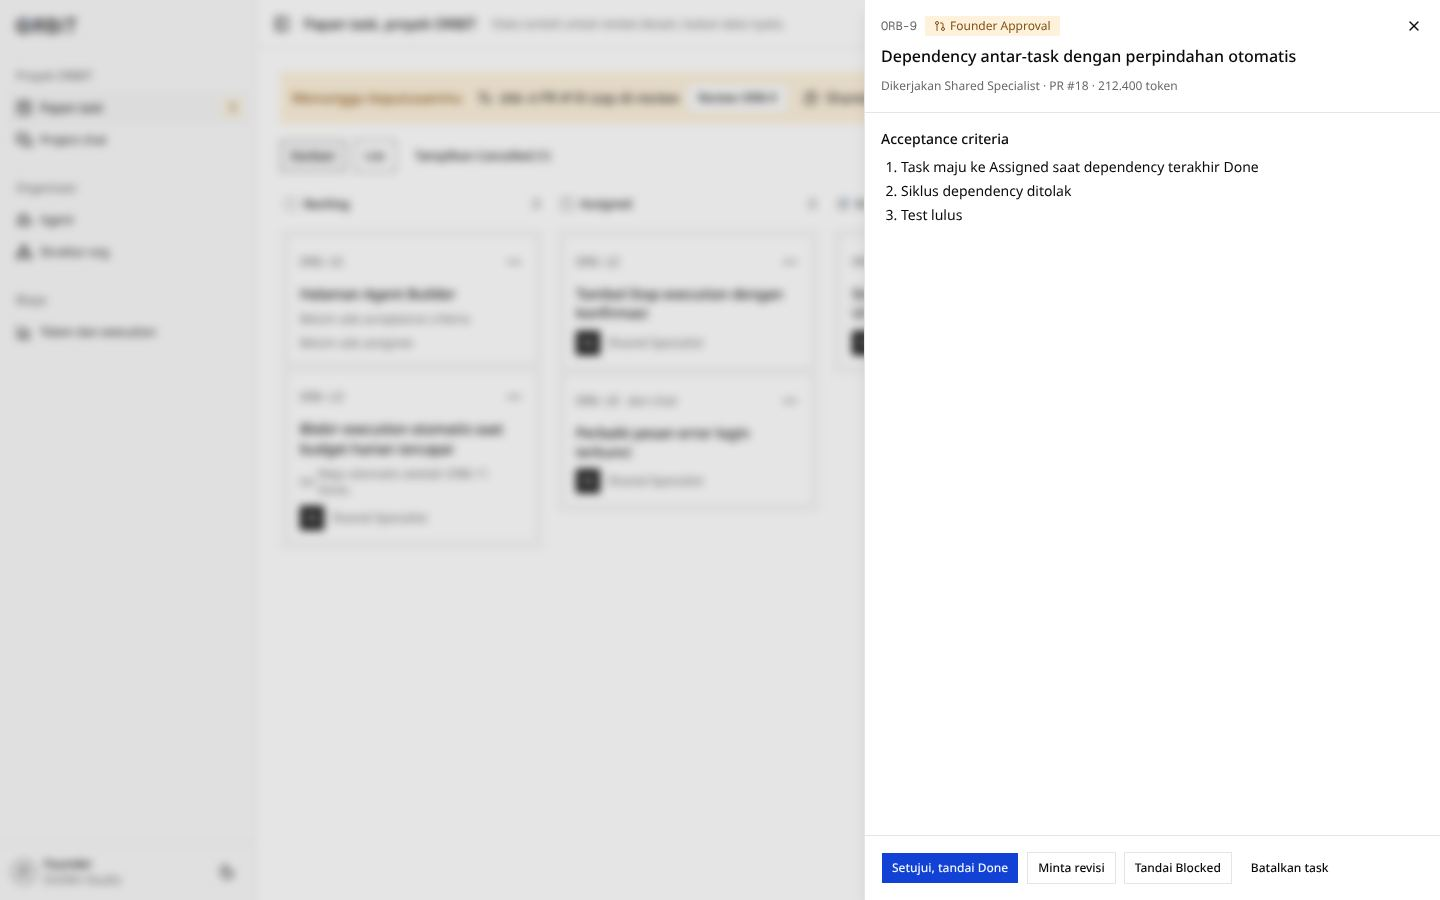
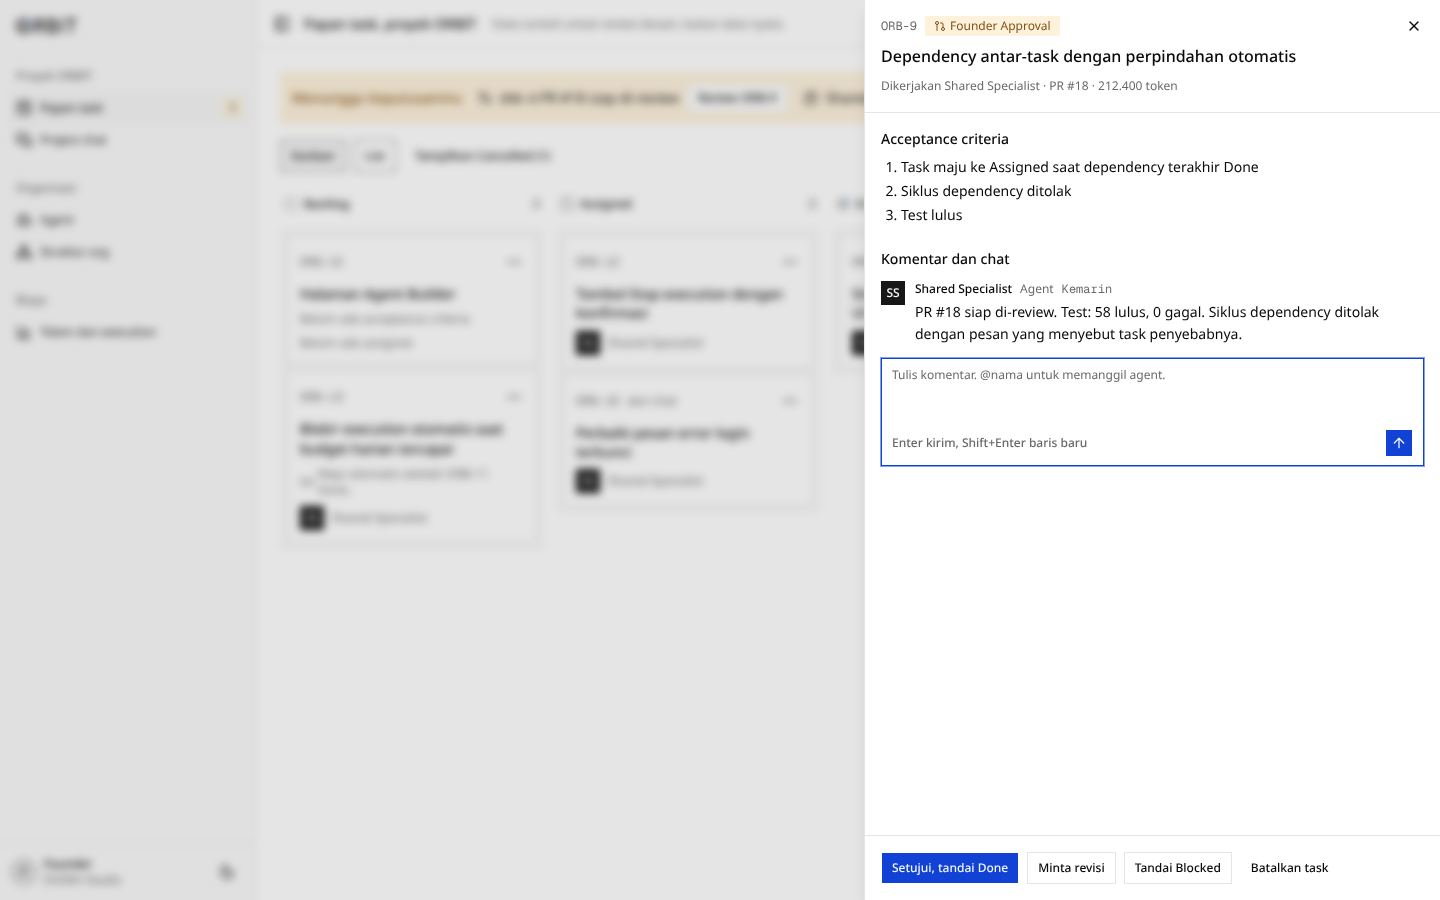
design: live execution panel and task comment thread (PRD v1.12)
Task detail now shows the running execution with tool summary and log,
and a comment thread that doubles as chat with routing notes per PRD
17.4. Mockups regenerated (15 JPG); click-through 39 checks pass.

Claude-Session: https://claude.ai/code/session_01PfyFGTKZtzKnpK7jkRuHrS

Changed region(s): [[0.5938, 0.28, 0.9688, 0.4356], [0.9375, 0.4667, 1.0, 0.5289], [0.625, 0.4667, 0.75, 0.4978]]

diff --git a/design/shadcn/components/orbit/task-thread.tsx b/design/shadcn/components/orbit/task-thread.tsx
@@ -1,0 +1,91 @@
+"use client"
+
+import * as React from "react"
+import { ArrowUp } from "lucide-react"
+
+import { InputGroup, InputGroupAddon, InputGroupButton, InputGroupTextarea } from "@/components/ui/input-group"
+import { ActorAvatar } from "@/components/orbit/actor-avatar"
+import { actorById, agents, taskThreads, type Comment, type Task } from "@/lib/orbit-data"
+
+/**
+ * Thread task = komentar = chat dengan agent (PRD 17.4, v1.12).
+ * Aturan saat execution berjalan:
+ * - mention assignee yang sedang bekerja: instruksi tambahan ke execution yang sama
+ * - mention agent lain: invocation baru
+ * - tanpa mention: catatan, tidak dibaca agent sampai dipanggil
+ */
+function routeNote(text: string, task: Task) {
+  const mentioned = agents.filter((a) => text.includes(`@${a.name}`))
+  if (!mentioned.length) return "Catatan. Agent tidak membacanya sampai dipanggil berikutnya."
+  const running = task.status === "in-progress"
+  if (running && mentioned.some((a) => a.id === task.assigneeId))
+    return "Dikirim ke execution yang sedang berjalan sebagai instruksi tambahan."
+  return `Memulai invocation baru untuk ${mentioned.map((a) => a.name).join(", ")}.`
+}
+
+export function TaskThread({ task }: { task: Task }) {
+  const [items, setItems] = React.useState<Comment[]>(taskThreads[task.id] ?? [])
+  const [draft, setDraft] = React.useState("")
+  const send = () => {
+    const text = draft.trim()
+    if (!text) return
+    setItems((c) => [...c, { id: c.length + 1, authorId: "founder", time: "Baru saja", text, note: routeNote(text, task) }])
+    setDraft("")
+  }
+  return (
+    <section aria-labelledby="thread" className="flex flex-col gap-3">
+      <h2 id="thread" className="text-sm font-medium">Komentar dan chat</h2>
+      {items.length ? (
+        <ol className="flex flex-col gap-4" aria-live="polite">
+          {items.map((c) => {
+            const a = actorById(c.authorId)!
+            return (
+              <li key={c.id} className="flex gap-2.5">
+                <ActorAvatar actor={a} size="sm" />
+                <div className="flex min-w-0 flex-col gap-1">
+                  <p className="flex items-baseline gap-2 text-xs">
+                    <span className="font-medium">{a.name}</span>
+                    {a.kind === "agent" ? <span className="text-muted-foreground">Agent</span> : null}
+                    <span className="font-mono text-muted-foreground">{c.time}</span>
+                  </p>
+                  <p className="text-sm leading-relaxed">{c.text}</p>
+                  {c.note ? <p className="text-xs text-muted-foreground">{c.note}</p> : null}
+                </div>
+              </li>
+            )
+          })}
+        </ol>
+      ) : (
+        <p className="text-xs text-muted-foreground">Belum ada komentar. Panggil agent dengan @nama untuk memberi instruksi.</p>
+      )}
+      <form
+        onSubmit={(e) => {
+          e.preventDefault()
+          send()
+        }}
+      >
+        <InputGroup>
+          <InputGroupTextarea
+            aria-label={`Komentar untuk ${task.id}`}
+            placeholder="Tulis komentar. @nama untuk memanggil agent."
+            rows={2}
+            value={draft}
+            onChange={(e) => setDraft(e.target.value)}
+            onKeyDown={(e) => {
+              if (e.key === "Enter" && !e.shiftKey && !e.nativeEvent.isComposing && e.keyCode !== 229) {
+                e.preventDefault()
+                send()
+              }
+            }}
+          />
+          <InputGroupAddon align="block-end">
+            <span className="text-xs text-muted-foreground">Enter kirim, Shift+Enter baris baru</span>
+            <InputGroupButton variant="default" size="icon-sm" type="submit" className="ml-auto" aria-label="Kirim komentar">
+              <ArrowUp aria-hidden="true" />
+            </InputGroupButton>
+          </InputGroupAddon>
+        </InputGroup>
+      </form>
+    </section>
+  )
+}

diff --git a/design/shadcn/components/orbit/board.tsx b/design/shadcn/components/orbit/board.tsx
@@ -30,6 +30,7 @@ import { Textarea } from "@/components/ui/textarea"
 import { ToggleGroup, ToggleGroupItem } from "@/components/ui/toggle-group"
 import { ActorAvatar } from "@/components/orbit/actor-avatar"
 import { ExecutionCard } from "@/components/orbit/execution-card"
+import { TaskThread } from "@/components/orbit/task-thread"
 import { StatusBadge, StatusIcon, TASK_STATUS } from "@/components/orbit/status"
 import { actorById, byId, formatTokens, tasks as seed, type Task, type TaskStatus } from "@/lib/orbit-data"
 import { cn } from "@/lib/utils"
@@ -244,7 +245,12 @@ function TaskSheet({ task, all, onClose, onPick }: { task: Task | null; all: Tas
               {task.note ? (
                 <p className={cn("text-sm", task.status === "blocked" && "text-task-blocked-foreground")}>{task.note}</p>
               ) : null}
-              {task.status === "in-progress" ? <ExecutionCard /> : null}
+              {task.status === "in-progress" ? (
+                <section aria-labelledby="live" className="flex flex-col gap-2">
+                  <h2 id="live" className="text-sm font-medium">Execution berjalan</h2>
+                  <ExecutionCard showLog />
+                </section>
+              ) : null}
               <section aria-labelledby="ac" className="flex flex-col gap-2">
                 <h2 id="ac" className="text-sm font-medium">Acceptance criteria</h2>
                 {task.criteria.length ? (
@@ -273,6 +279,7 @@ function TaskSheet({ task, all, onClose, onPick }: { task: Task | null; all: Tas
                   <p className="text-xs text-muted-foreground">Task ini pindah ke Assigned otomatis saat semua dependency Done.</p>
                 </section>
               ) : null}
+              <TaskThread key={task.id} task={task} />
             </div>
             {actions.length ? (
               <div className="flex flex-wrap items-center gap-2 border-t p-4">

diff --git a/design/shadcn/lib/orbit-data.ts b/design/shadcn/lib/orbit-data.ts
@@ -95,6 +95,12 @@ export const runningExecution = {
   tokens: 84200,
   limit: 300000,
   step: "Menjalankan test integrasi (pnpm test)",
+  tools: [
+    { kind: "Ubah file", detail: "backend/app/executions/stream.py" },
+    { kind: "Ubah file", detail: "web/components/execution-log.tsx" },
+    { kind: "Perintah", detail: "pnpm test (unit): 41 lulus" },
+    { kind: "Perintah", detail: "pnpm test (integrasi): berjalan" },
+  ],
   log: [
     "10:42:03  Mengambil branch orb-11-log-stream",
     "10:42:09  Membaca instruksi agent v7",
@@ -122,6 +128,19 @@ export const tokensPerDay = [
   { day: "Sel", tokens: 2120700 },
   { day: "Rab", tokens: 1284300 },
 ]
+
+export type Comment = { id: number; authorId: string; time: string; text: string; note?: string }
+
+// Thread task = kolom komentar = chat terkait task (PRD 17.4, v1.12).
+export const taskThreads: Record<string, Comment[]> = {
+  "ORB-11": [
+    { id: 1, authorId: "founder", time: "10:41", text: "@Shared Specialist kerjakan ORB-11. Pakai Server-Sent Events, bukan WebSocket." },
+    { id: 2, authorId: "spec", time: "10:42", text: "Mulai di branch orb-11-log-stream dengan SSE. Execution EXE-482." },
+  ],
+  "ORB-9": [
+    { id: 1, authorId: "spec", time: "Kemarin", text: "PR #18 siap di-review. Test: 58 lulus, 0 gagal. Siklus dependency ditolak dengan pesan yang menyebut task penyebabnya." },
+  ],
+}
 
 export const byId = <T extends { id: string }>(list: T[], id?: string) => list.find((x) => x.id === id)
 export const actorById = (id?: string): Actor | undefined => (id === "founder" ? founder : byId(agents, id))

diff --git a/design/shadcn/components/orbit/execution-card.tsx b/design/shadcn/components/orbit/execution-card.tsx
@@ -88,6 +88,19 @@ export function ExecutionCard({ className, showLog = false, stopOpen }: { classN
         {running ? <>Langkah terakhir: {exec.step}</> : <>Dihentikan oleh Founder. Task kembali ke Assigned.</>}
       </p>
       {showLog ? (
+        <section aria-label="Tool yang dipanggil" className="flex flex-col gap-1 text-xs">
+          <h3 className="text-muted-foreground">Tool yang dipanggil</h3>
+          <ul className="flex flex-col gap-0.5 font-mono">
+            {exec.tools.map((t) => (
+              <li key={t.detail} className="flex gap-2">
+                <span className="w-20 shrink-0 text-muted-foreground">{t.kind}</span>
+                <span className="min-w-0 truncate">{t.detail}</span>
+              </li>
+            ))}
+          </ul>
+        </section>
+      ) : null}
+      {showLog ? (
         <pre aria-label="Execution log" className="max-h-56 overflow-auto bg-muted p-3 font-mono text-xs leading-5 text-foreground">
           {exec.log.join("\n")}
           {running ? "" : "\n11:02:10  Dihentikan oleh Founder"}

diff --git a/design/design-system.md b/design/design-system.md
@@ -1,6 +1,6 @@
 # ORBIT Design System
 
-Versi 2.0 · 2026-11-25 · Mengikuti PRD v1.11
+Versi 2.0 · 2026-11-25 · Mengikuti PRD v1.12
 Implementasi: [`design/shadcn/`](shadcn/) · Brand: [`brand-guidelines.md`](brand-guidelines.md) · Logo: [`logo/`](logo/) · Mockup: [`mockups/`](mockups/)
 
 Design system ini **adalah kode di `design/shadcn`**. Dokumen ini menjelaskan keputusan dan aturannya. Kalau dokumen dan kode berbeda, yang dianggap benar adalah kode, lalu dokumen ini diperbaiki.
@@ -153,7 +153,7 @@ Berat font hanya 400 dan 500. Tidak ada uppercase dengan tracking lebar.
 
 | Layar (PRD 4.4) | Route | Pola ORBIT | Komponen shadcn |
 |---|---|---|---|
-| Kanban, List, detail task | `/board` | `Board`, `TaskCard`, `TaskSheet`, `ReasonDialog`, `CreateTaskDialog` | `toggle-group`, `button`, `dropdown-menu`, `sheet`, `dialog`, `field`, `input`, `textarea`, `table`, `badge`, `avatar` |
+| Kanban, List, detail task (dengan panel execution live dan thread komentar/chat, PRD 17.4) | `/board` | `Board`, `TaskCard`, `TaskSheet`, `TaskThread`, `ExecutionCard`, `ReasonDialog`, `CreateTaskDialog` | `toggle-group`, `button`, `dropdown-menu`, `sheet`, `dialog`, `field`, `input`, `textarea`, `table`, `badge`, `avatar` |
 | Project Chat dengan @mention | `/chat` | `Chat` | `input-group`, `command`, `select`, `item`, `avatar`, `badge` |
 | Daftar agent | `/agents` | `AgentList` | `table`, `badge`, `avatar`, `button` |
 | Agent Builder | `/agents/new` | `AgentBuilder` | `field`, `input`, `input-group`, `select`, `radio-group`, `tabs`, `textarea`, `alert` |
@@ -177,7 +177,12 @@ Transisi milik assignee atau system tidak muncul sebagai tombol.
 - **StatusBadge**: ikon + label + tone, tanpa border, uppercase, atau glow. Untuk status yang sedang berjalan, ikonnya `OrbitIndicator` dengan posisi satelit sesuai porsi token.
 - **ActorAvatar**: human berupa lingkaran `bg-human` dengan `ring-1 ring-input`; agent berupa kotak `bg-agent`. Isinya inisial. Di chat, nama agent diberi label "Agent".
 - **TaskCard**: baris atas berisi ID mono, penanda "dari chat", dan menu aksi. Lalu judul (sebuah `<button>` yang area kliknya menutupi seluruh kartu), satu baris konteks (alasan blocked, feedback revisi, atau dependency yang ditunggu), dan footer berisi assignee, PR, dan token. Menu aksi adalah alternatif drag (WCAG 2.5.7). Tidak ada garis warna di tepi kartu.
-- **ExecutionCard**: agent dan task, status, execution ID, durasi, token / batas, `progress`, langkah terakhir, dan log opsional. Tombol Stop memakai varian `destructive` dan membuka `AlertDialog` (copy di brand-guidelines §3.4). Setelah dihentikan, status menjadi Cancelled.
+- **Detail task** (`TaskSheet`, PRD 17.4 v1.12): status, judul, assignee, PR, dan token di header. Bila ada execution berjalan, panel live (`ExecutionCard` dengan log) tampil paling atas. Di bawahnya acceptance criteria, dependency, lalu thread komentar. Aksi Founder di footer.
+- **TaskThread**: komentar task sekaligus chat dengan agent. Setiap komentar Founder diberi keterangan rute, sesuai PRD 17.4:
+  - Mention assignee yang sedang bekerja: "Dikirim ke execution yang sedang berjalan sebagai instruksi tambahan."
+  - Mention agent lain: "Memulai invocation baru untuk …"
+  - Tanpa mention: "Catatan. Agent tidak membacanya sampai dipanggil berikutnya."
+- **ExecutionCard**: agent dan task, status, execution ID, durasi, token / batas, `progress`, langkah terakhir, dan (di detail task dan dashboard) daftar tool yang dipanggil serta log. Tombol Stop memakai varian `destructive` dan membuka `AlertDialog` (copy di brand-guidelines §3.4). Setelah dihentikan, status menjadi Cancelled.
 - **Node org chart**: Founder di puncak sebagai human (PRD 8.1, v1.11) dan tidak bisa diklik. Node agent adalah `<button>` yang membuka sheet detail.
   - Garis atasan tetap: solid.
   - Garis atasan per proyek: putus-putus dengan label kode proyek.
@@ -242,10 +247,12 @@ Yang sudah diimplementasikan di `/states`: empty state 0 agent, skeleton papan, 
 
 ### 7.4 Bukti click-through (R-35)
 
-Setiap mockup dijalankan dari `next build` + `next start`, lalu diuji otomatis dengan Playwright. Hasilnya 35 cek lulus dan 0 error di console. Yang diuji:
+Setiap mockup dijalankan dari `next build` + `next start`, lalu diuji otomatis dengan Playwright. Hasilnya 39 cek lulus dan 0 error di console. Yang diuji:
 - Navigasi sidebar ke 5 halaman.
 - Kanban ↔ List dan tampilkan Cancelled.
 - Review membuka sheet; Escape menutupnya.
+- Detail task In Progress menampilkan panel execution live dan tool yang dipanggil.
+- Rute komentar: mention assignee menjadi instruksi tambahan, mention agent lain memulai invocation baru, tanpa mention menjadi catatan.
 - Blocked tanpa alasan memunculkan error; dengan alasan, task pindah kolom.
 - Setujui memindahkan task ke Done.
 - Buat task: validasi, lalu task muncul di Backlog.

diff --git a/design/brand-guidelines.md b/design/brand-guidelines.md
@@ -1,6 +1,6 @@
 # ORBIT Brand Guidelines
 
-Versi 2.0 · 2026-11-25 · Pemilik: Founder (EVORA Studio) · Mengikuti PRD v1.11
+Versi 2.0 · 2026-11-25 · Pemilik: Founder (EVORA Studio) · Mengikuti PRD v1.12
 Berlaku untuk: Web UI ORBIT, dokumentasi produk, notifikasi, dan materi tentang ORBIT.
 Pendamping: [`design-system.md`](design-system.md) (spesifikasi), implementasi di [`shadcn/`](shadcn/), token di [`shadcn/app/globals.css`](shadcn/app/globals.css), dan mockup di [`mockups/`](mockups/).
 
@@ -107,6 +107,10 @@ Setelah berhasil, kartu execution menampilkan: *Dihentikan oleh Founder. Task ke
 - Empty Kanban kolom: *Kosong*. (Cukup satu kata. Kolom kosong bukan masalah.)
 - Empty chat (placeholder composer): *Panggil agent dengan @nama. Agent hanya bekerja saat kamu panggil.*
 - Pesan tanpa @mention: *Tidak ada agent yang dipanggil. Pesan tersimpan tanpa memulai execution.*
+- Komentar task (PRD 17.4), keterangan di bawah setiap komentar Founder:
+  - Mention assignee yang sedang bekerja: *Dikirim ke execution yang sedang berjalan sebagai instruksi tambahan.*
+  - Mention agent lain: *Memulai invocation baru untuk PO 1.*
+  - Tanpa mention: *Catatan. Agent tidak membacanya sampai dipanggil berikutnya.*
 - Strip fokus di papan: *Menunggu keputusanmu* · tombol *Review ORB-9* · *Jawab di chat*.
 - Dependency: *Maju otomatis setelah ORB-11 Done.*
 - Task dari chat: label *dari chat*.
